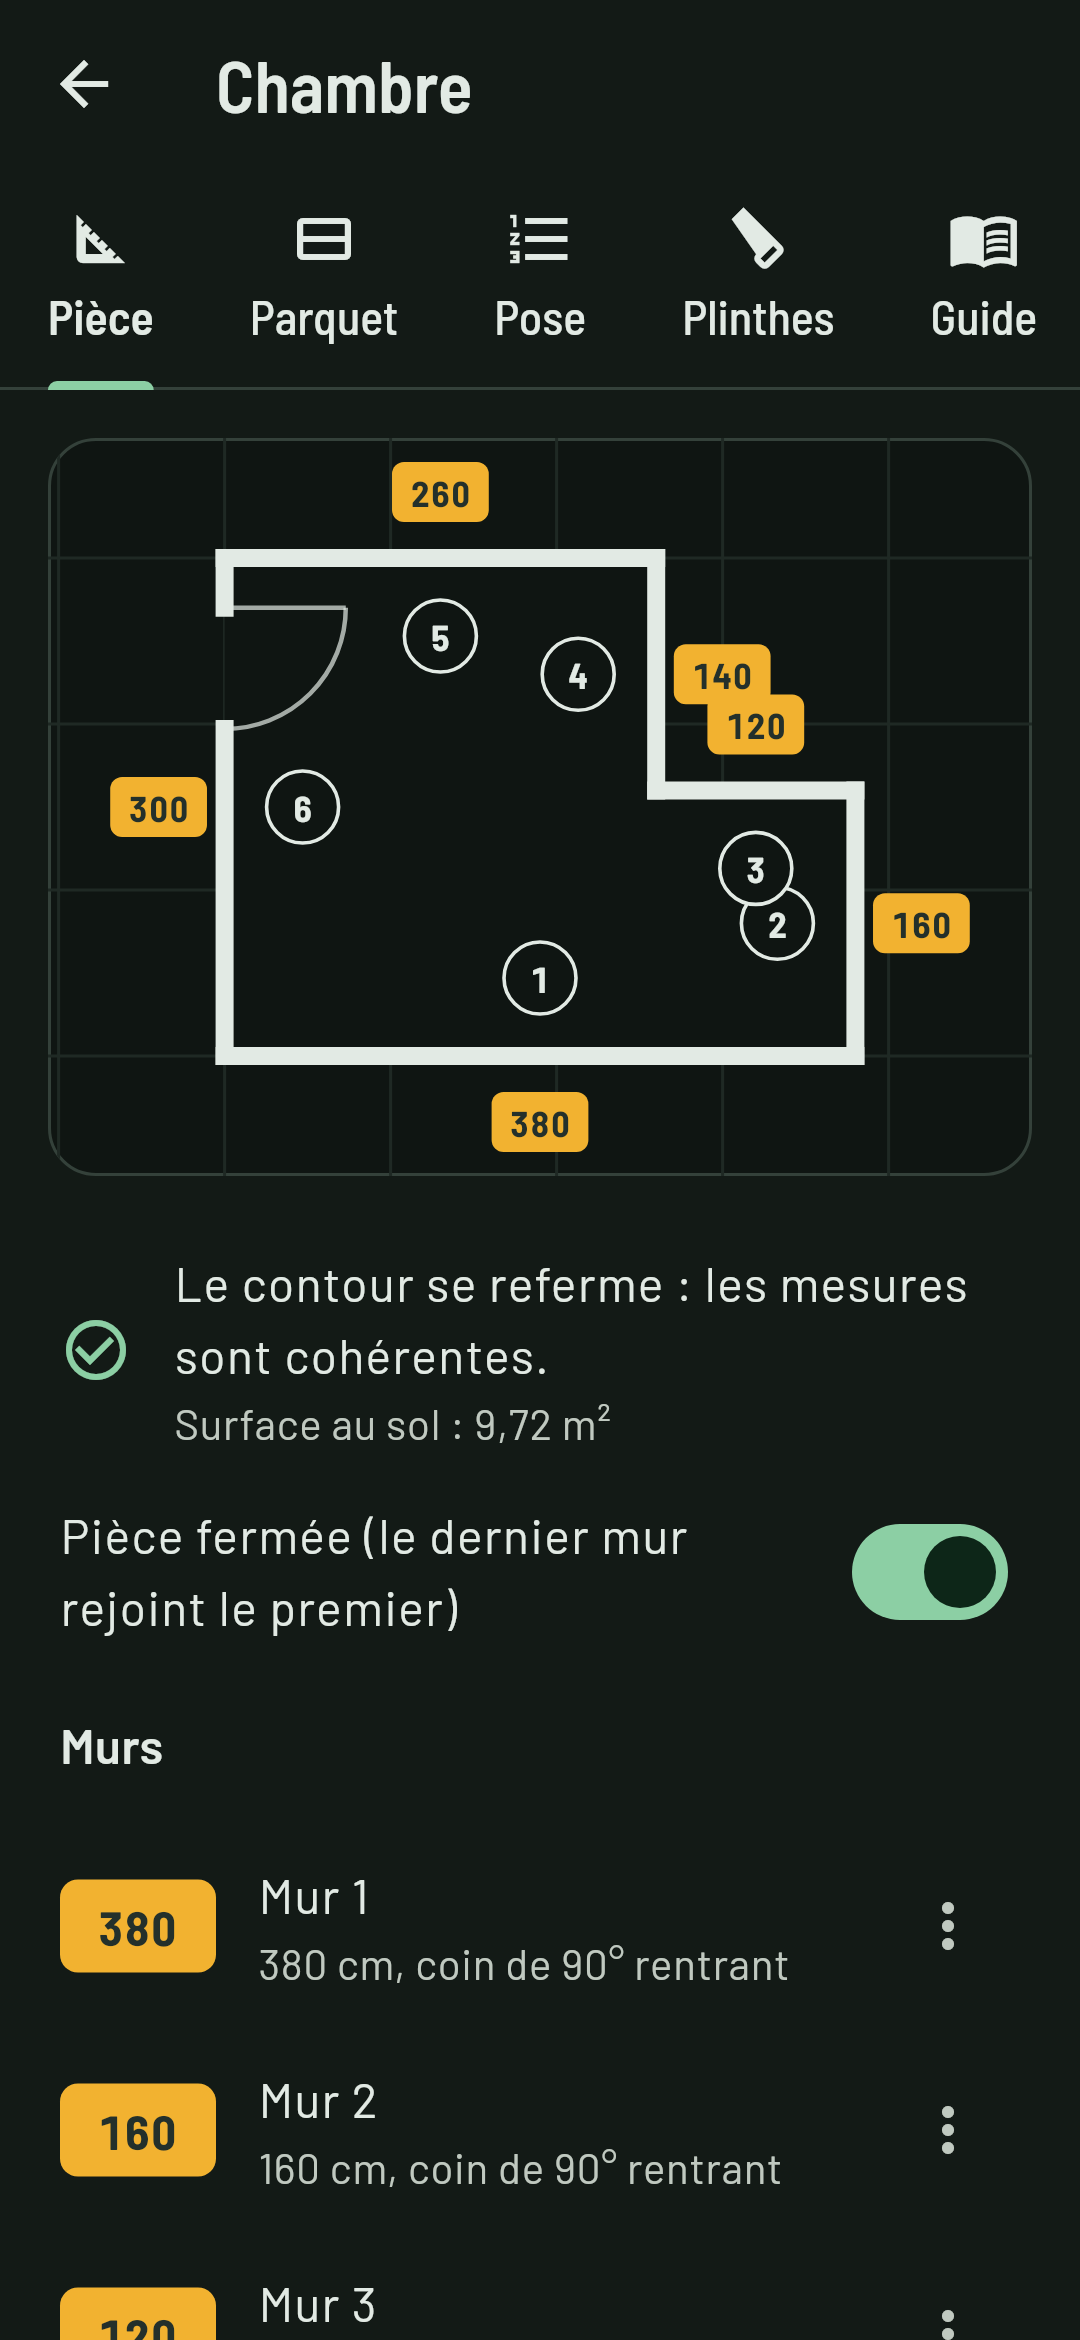
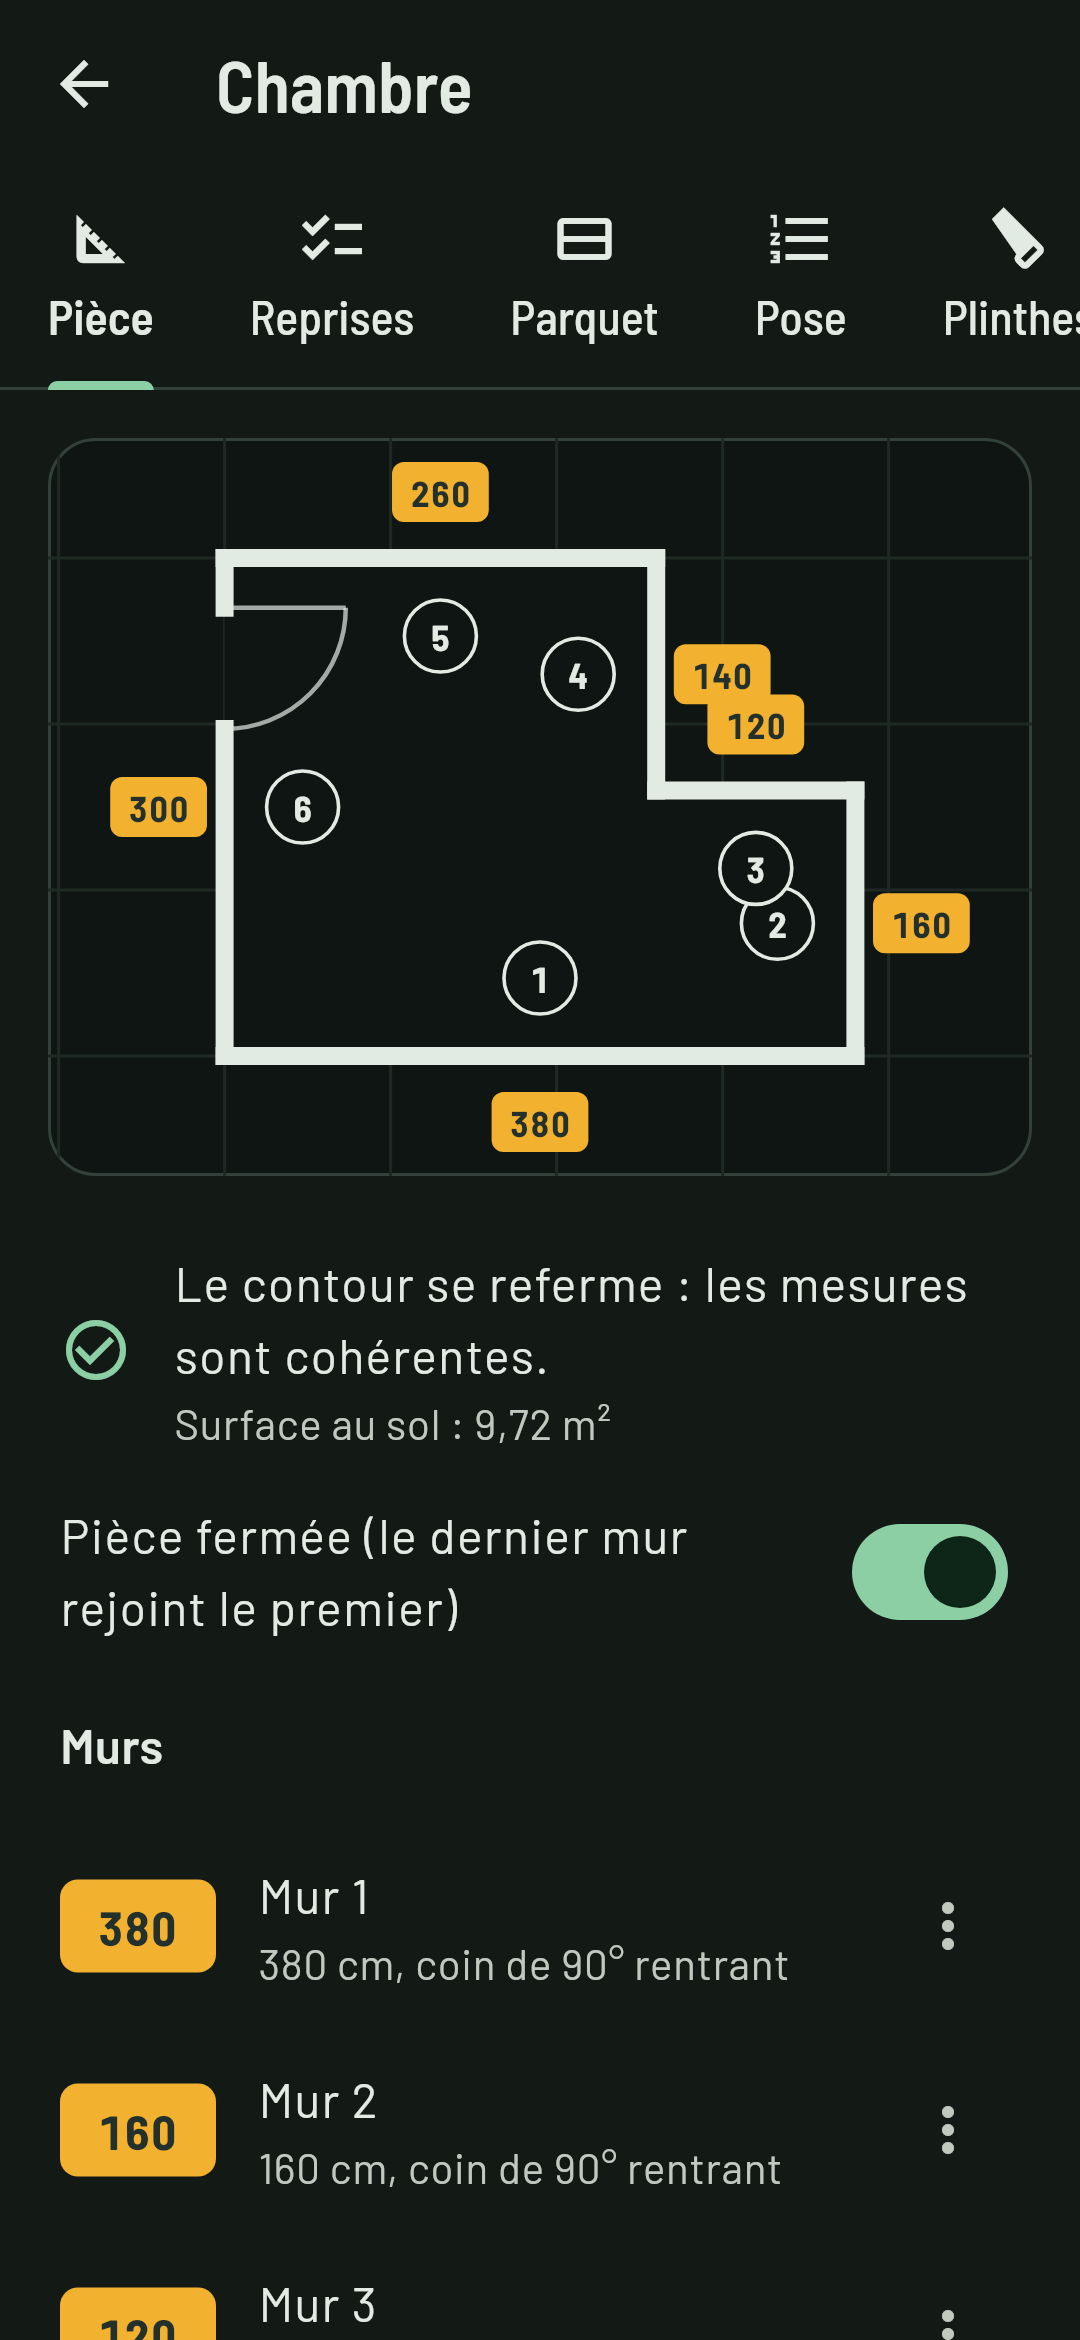
chore : formatage ; docs : capture des reprises

diff --git a/lib/ui/touch_ups_view.dart b/lib/ui/touch_ups_view.dart
@@ -114,12 +114,7 @@ class _TouchUpsViewState extends State<TouchUpsView> {
         if (_room.walls.isNotEmpty)
           Padding(
             padding: const EdgeInsets.all(16),
-            child: RoomPlan(
-              room: _room,
-              markers: vMarkers,
-              onTapPlan: _place,
-              wallNumbers: false,
-            ),
+            child: RoomPlan(room: _room, markers: vMarkers, onTapPlan: _place, wallNumbers: false),
           ),
         if (_placing != null)
           Card(

diff --git a/README.md b/README.md
@@ -6,9 +6,9 @@ Tout reste sur le téléphone, sans compte ni connexion.
 
 ## Aperçu
 
-| Chantier | Plan de la pièce | Parquet | Plan de pose | Plinthes |
+| Chantier | Reprises | Parquet | Plan de pose | Plinthes |
 |---|---|---|---|---|
-| ![Chantier](docs/captures/02-chantier.png) | ![Pièce](docs/captures/03-piece.png) | ![Parquet](docs/captures/04-parquet.png) | ![Pose](docs/captures/05-pose.png) | ![Plinthes](docs/captures/06-plinthes.png) |
+| ![Chantier](docs/captures/02-chantier.png) | ![Reprises](docs/captures/10-reprises.png) | ![Parquet](docs/captures/04-parquet.png) | ![Pose](docs/captures/05-pose.png) | ![Plinthes](docs/captures/06-plinthes.png) |
 
 Captures faites sur un chantier fictif par le workflow Captures (`test/captures/`), à chaque changement d'interface. Les nouvelles versions sont dans l'artefact `captures` de son dernier passage.
 
